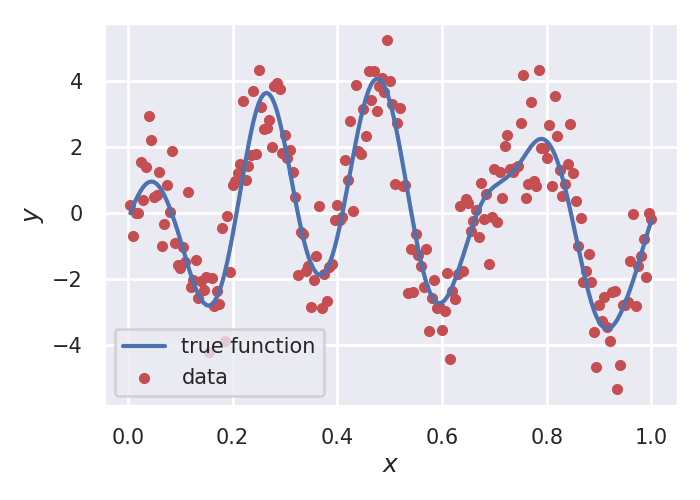
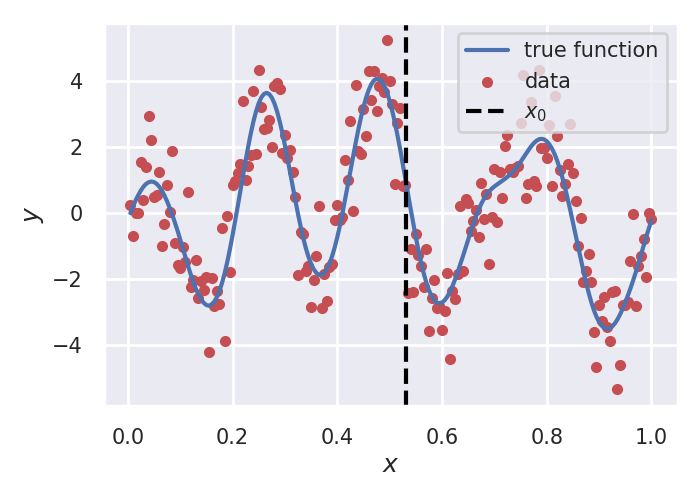
minor

Changed region(s): [[0.63, 0.06, 0.96, 0.27], [0.15, 0.63, 0.48, 0.81], [0.57, 0.06, 0.6, 0.81]]

diff --git a/local_smooth/main.py b/local_smooth/main.py
@@ -31,20 +31,25 @@ def main(config: Dict[str, Any], args: argparse.Namespace):
     f_x = data_model.func(xs)
     ys = data_model.sample_ys(xs, config["seed"])
 
+    x0 = np.array(np.random.rand())
+    print(f"x_0: {x0:.3f}")
+
     Path(config["figpath"]).mkdir(exist_ok=True)
     plot_data(
         xs,
         f_x,
         ys,
+        x0=x0,
         savepath=Path(config["figpath"], f"function_data_{config['name']}.png"),
     )
 
-    x0 = np.array(np.random.rand())
-    print(f"x_0: {x0:.3f}")
     grad_x0 = data_model.grad_func(x0)
+    f_x0 = data_model.func(x0)
     bandwidths = np.logspace(
         config["bandwidth_max"], config["bandwidth_min"], config["num_bandwidths"]
     )
+
+
 
     local_smother = LocalSmoothing(config["order"])
     kernel = KernelFactory.get_kernel(config["kernel"])
@@ -55,11 +60,9 @@ def main(config: Dict[str, Any], args: argparse.Namespace):
         print(f"\nBandwidth: {bandwidth}")
         weights = kernel(xs - x0, bandwidth)
         local_smother.fit(x0, xs, ys, weights)
-        derivative_estimate = local_smother.estimate[
-            1
-        ]  # TODO: change explicit index to variable
 
-        print(f"Estimate: {derivative_estimate:.3f}, true value: {grad_x0:.3f}")
+        print(f"Function estimate: {local_smother.estimate[0]:.3f}, true value: {f_x0:.3f}")
+        print(f"Derivative estimate: {local_smother.estimate[1]:.3f}, true value: {grad_x0:.3f}")
 
         weights = kernel(xs[:, None] - xs[None, :], bandwidth)
         kernel_matrix = local_smother.construct_kernel_matrix(xs, weights)
@@ -90,6 +93,13 @@ def main(config: Dict[str, Any], args: argparse.Namespace):
         f"Chosen bandwidth: {best_bandwidth_emp:.5f}, risk: {true_risks[best_idx]:.3f}"
     )
 
+    # plot_true_risk(
+    #     bandwidths,
+    #     risk_estimates,
+    #     #estimate=(best_idx, best_risk_emp),
+    #     savepath=Path(config["figpath"], f"unbiased_risk_{config['name']}.png"),
+    # )
+    
     plot_true_risk(
         bandwidths,
         true_risks,

diff --git a/local_smooth/vizualize.py b/local_smooth/vizualize.py
@@ -26,15 +26,19 @@ def plot_data(
     xs: np.ndarray,
     f_x: np.ndarray,
     ys: np.ndarray,
+    x0: Optional[np.ndarray] = None,
     savepath: Optional[Union[str, Path]] = None,
 ):
     fig = plt.figure(figsize=(7, 5))
 
     plt.plot(xs, f_x, label="true function")
     plt.scatter(xs, ys, marker=".", color="r", label="data")
+    if x0:
+        plt.axvline(x0, linestyle='--', label=r'$x_0$', color='black')
     plt.xlabel(r"$x$")
     plt.ylabel(r"$y$")
     plt.grid()
+
     plt.legend()
     fig.tight_layout()
 
